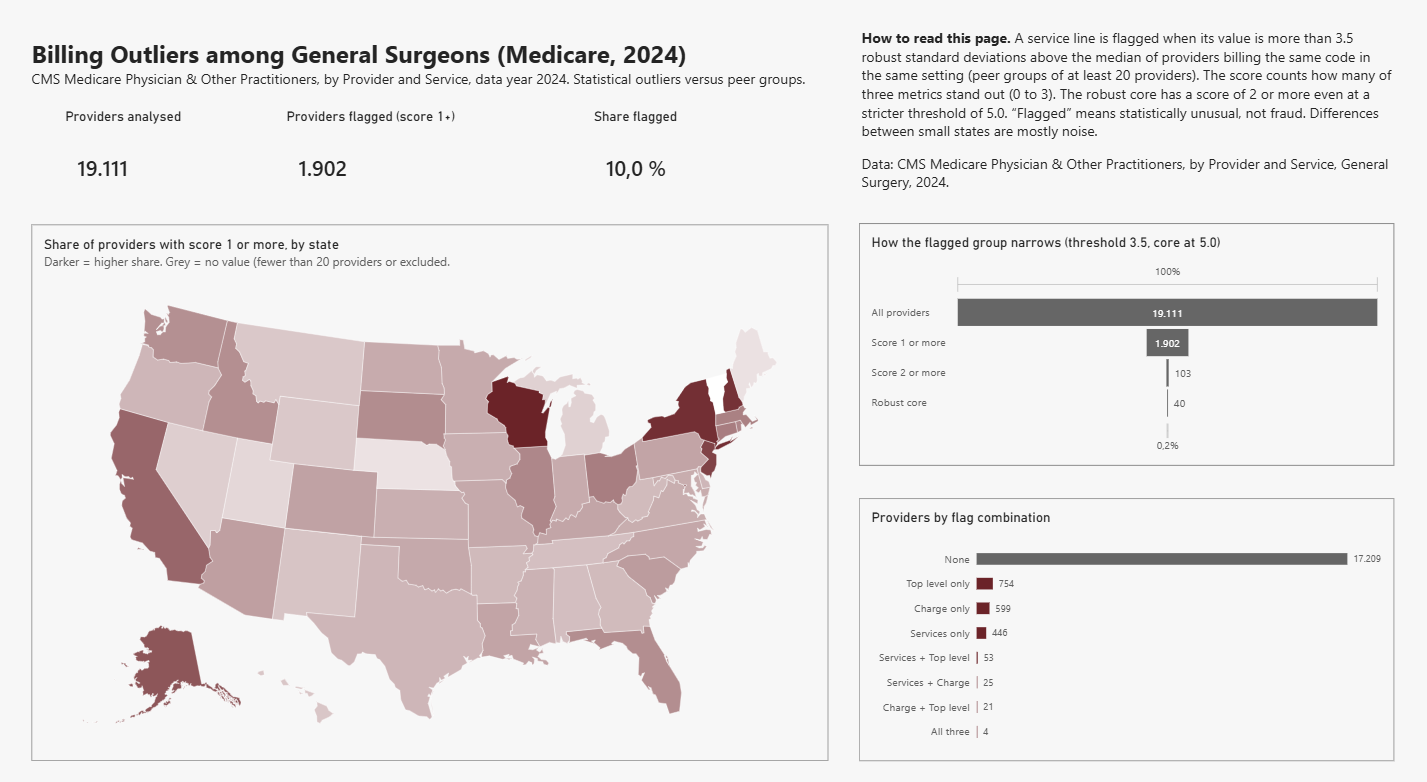
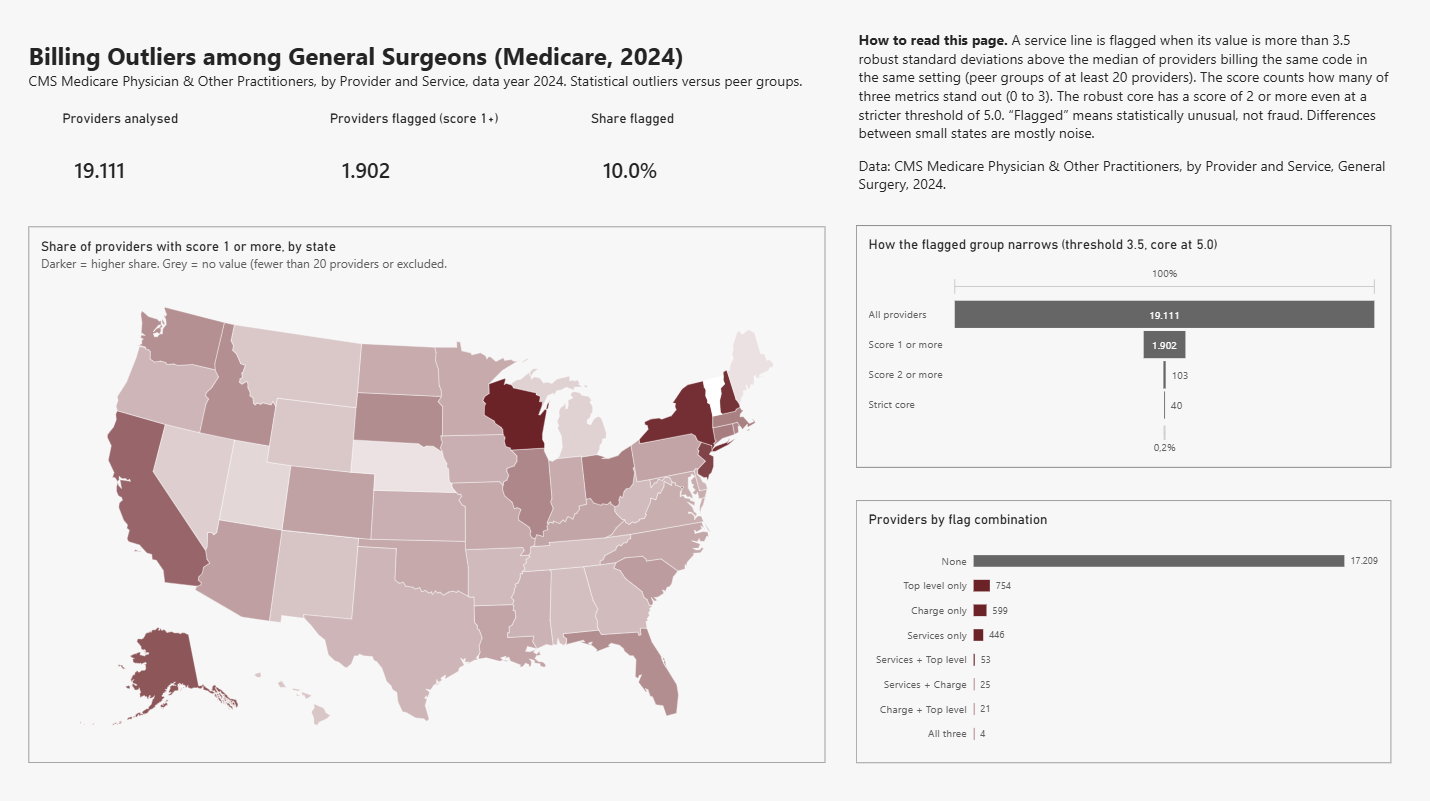
update README, check robustness

diff --git a/README.md b/README.md
@@ -31,13 +31,17 @@ The raw data is not part of this repository. Download instructions are below.
 
    `robust z = 0.6745 × (value − median) ÷ MAD`
 
-   Median and MAD (median absolute deviation) are used instead of mean and standard deviation, because extreme values distort the mean and hide themselves. If the MAD of a group is 0, the common fallback `(value − median) ÷ (1.253314 × mean absolute deviation)` is used.
+   Median and MAD (median absolute deviation) are used instead of mean and standard deviation, because extreme values distort the mean and hide themselves. If the MAD of a group is 0 (more than half of the values are identical), a fallback is used:
+
+   `robust z = (value − median) ÷ (1.253314 × mean absolute deviation)`
+
+   If that is 0 as well, no z-value is computed and nothing is flagged. The fallback is less robust than the MAD, see "Fallback rule" below.
 5. **Three metrics.**
    - Services per beneficiary (per service line)
    - Submitted charge divided by paid amount (per service line)
    - Share of the highest level (code 99215) among established-patient office visits (codes 99212 to 99215), per provider, for providers with at least 30 visit services
 6. **Provider level.** For the first two metrics, a provider stands out when at least 25 % of its comparable service lines (and at least 5) are flagged. The third metric is compared across all providers.
-7. **Score and robust core.** The score is the number of metrics (0 to 3) on which a provider stands out at the standard threshold of 3.5. The **robust core** consists of providers that still stand out on at least two metrics at a stricter threshold of 5.0.
+7. **Score and strict core.** The score is the number of metrics (0 to 3) on which a provider stands out at the standard threshold of 3.5. The **strict core** consists of providers that still stand out on at least two of the three metrics at a stricter threshold of 5.0. In the SQL code this column is called `robust_core`.
 
 ## Results
 
@@ -49,7 +53,7 @@ Numbers for General Surgery, data year 2024:
 | Flagged (score 1 or more) | 1,902 | 9.95 % |
 | Score 2 or more | 103 | 0.54 % |
 | Score 3 | 4 | |
-| Robust core | 40 | 0.21 % |
+| Strict core | 40 | 0.21 % |
 
 Sensitivity to the threshold:
 
@@ -59,22 +63,36 @@ Sensitivity to the threshold:
 | 3.5 (default) | 1,902 | 103 | 4 |
 | 5.0 | 1,126 | 40 | 0 |
 
-The size of the flagged group therefore depends on the chosen threshold. It is not an estimate of how many providers bill incorrectly. All 40 providers of the robust core are also in the group with score 2 or more at 3.5.
+The size of the flagged group therefore depends on the chosen threshold. It is not an estimate of how many providers bill incorrectly. All 40 providers of the strict core are also in the group with score 2 or more at 3.5.
 
-Other findings:
+Sensitivity to the choice of metrics (threshold 3.5, strict core at 5.0):
+
+| | All three metrics | Metrics 1 and 2 only |
+|---|---|---|
+| Providers with score 1 or more | 1,902 | 1,148 |
+| Providers with score 2 or more | 103 | 29 |
+| Strict core | 40 | 9 |
+
+For "metrics 1 and 2 only", the strict core means standing out on both service-line metrics at the threshold of 5.0. 754 of the 1,902 flagged providers (about 40 %) stand out only on the visit-level metric. Of the 40 providers in the strict core, 9 remain without it. The strict core is therefore stable against the threshold but depends on the choice of metrics. Read it as "stands out on several metrics", not as a validated finding.
+
+### Fallback rule
+
+- In 139 of 290 peer groups the MAD of services per beneficiary is 0 (more than half of the values are identical). In 13 of these, all values are identical, so no z-value is computed (558 service lines, 0.5 %). In the other 126 groups the fallback rule is used. For the charge to paid ratio the MAD is never 0.
+- For the visit-level metric, more than half of the providers bill no code 99215, so median and MAD are both 0 and the fallback applies to every provider. With a median of 0 the rule means: a provider is flagged when the share of code 99215 is more than about 30 % of its visits (3.5 × 1.2533 × the average share of 6.9 %). The threshold for the strict core is about 44 %. This is a ratio to the mean, not a robust statistic.
+
+### Other findings
 
 - 4.7 % of service lines are flagged on services per beneficiary, 4.3 % on charge to paid ratio.
-- 832 of 9,714 providers with enough visit services stand out on the share of the highest level (8.6 %). More than half of the providers never bill code 99215, so median and MAD are both 0 and the fallback rule is used.
-- In 139 of 290 peer groups the MAD of services per beneficiary is 0 (more than half of the values are identical), which is why the fallback rule is needed.
+- 832 of 9,714 providers with enough visit services stand out on the share of the highest level (8.6 %).
 - The 15 service codes with the highest share of flagged lines are a mix of laboratory tests, screening and diagnostic procedures. Most of their peer groups have 20 to 50 providers (two have more than 100), so the shares are unstable. The list shows where the rule is most active, not where billing is most questionable.
 
 ## Dashboard
 
 Power BI, three pages:
 
-1. **Overview:** share of flagged providers by state, key numbers, a funnel from all providers to the robust core, and combinations of flagged metrics
+1. **Overview:** share of flagged providers by state, key numbers, a funnel from all providers to the strict core, and combinations of flagged metrics
 2. **Robustness:** distribution of robust z-values, sensitivity to the threshold, service codes with the most flagged lines
-3. **Case list and About:** the 40 providers of the robust core (pseudonyms only), method and limits
+3. **Case list and About:** the 40 providers of the strict core (pseudonyms only), method and limits
 
 Screenshots are in `06_dashboard/`. The Power BI file itself is not published because it contains the pseudonyms and states of all providers.
 
@@ -92,16 +110,16 @@ python 02_scripts\download_cms.py
 python 02_scripts\run_sql.py 03_sql\01_condense.sql
 python 02_scripts\run_sql.py 03_sql\02_data_quality.sql
 python 02_scripts\run_sql.py 03_sql\03_metrics.sql
-python 02_scripts\run_sql.py 03_sql\05_sensitivity.sql
-python 02_scripts\run_sql.py 03_sql\06_exports.sql
+python 02_scripts\run_sql.py 03_sql\04_sensitivity.sql
+python 02_scripts\run_sql.py 03_sql\05_exports.sql
 ```
 
 Notes:
 
 - `01_condense.sql` contains the name of the downloaded CSV file. Adjust it if your download date differs.
-- Pseudonyms are drawn randomly on a fresh run. Counts, shares and flags are the same, only the labels differ.
+- Pseudonyms are drawn randomly on a fresh run of `01_condense.sql`. Counts, shares and flags are the same, only the labels differ. Do not re-run it if you want to keep the labels used in screenshots or local notes.
 - SQL uses DuckDB. DuckDB-specific parts (`read_csv`, `COPY ... TO`, `SELECT * EXCLUDE`) are marked in the comments. The rest is close to standard SQL.
-- The Power BI files read the CSV files in `05_output/`. When importing, set the locale to English (United States), otherwise decimal points are read wrongly.
+- The dashboard (not published) reads CSV files that the SQL scripts write to `05_output/`. `provider_metrics.csv` contains one pseudonymised row per provider and stays on the local computer. When importing into Power BI, set the locale to English (United States), otherwise decimal points are read wrongly.
 
 ## Runtimes
 
@@ -112,22 +130,23 @@ Measured with PowerShell `Measure-Command` on the already filtered General Surge
 | `01_condense.sql` (load, pseudonymise, metrics per row) | 2.5 s |
 | `03_metrics.sql` (peer groups, flags, score, export) | 2.1 s |
 
-Computer: Huawei Matebook D16, 16 RAM
+Computer: Huawei MateBook D16, 16 GB RAM, Windows.
 
 ## Repository structure
 
 ```
 01_data/        raw data and local database (not published)
 02_scripts/     download_cms.py, run_sql.py
-03_sql/         01_condense, 02_data_quality, 03_metrics, 05_sensitivity, 06_exports
+03_sql/         01_condense, 02_data_quality, 03_metrics, 04_sensitivity, 05_exports
 04_notebooks/   reserved for a possible machine learning comparison (see Possible next steps)
-05_output/      aggregated results (pseudonymised, no NPI)
+05_output/      CSV files created locally by the SQL scripts. Only the aggregated tables are published, the pseudonymised       provider-level file (provider_metrics.csv) is not.
 06_dashboard/   screenshots
 ```
 
 ## Privacy
 
 Names and street addresses are never loaded. National Provider Identifiers are replaced by random pseudonyms, and the mapping stays on the local computer. No single provider is named. The data itself is public, so a pseudonym is no protection against someone who deliberately matches figures with the public CMS file. For this reason the case list shows no state and no exact figures.
+The provider-level file with pseudonyms (provider_metrics.csv) is created locally and is not part of this repository. Only aggregated tables without pseudonyms are published.
 
 ## Limits
 
@@ -137,6 +156,8 @@ Names and street addresses are never loaded. National Provider Identifiers are r
 - CMS leaves out small counts (the smallest number of beneficiaries in the data is 11), so very small cases are missing.
 - No external fraud labels, so there is no hit rate. Flags are statistical outliers, not findings.
 - The size of the flagged group depends on the threshold.
+- The flagged group and the strict core depend on the choice of metrics. The visit-level metric uses the fallback rule for every provider (a ratio to the mean, not a robust statistic), and the strict core shrinks from 40 to 9 without it.
+- In 126 of 290 peer groups the fallback rule replaces the MAD for services per beneficiary. Flags there are less robust and not strictly comparable with flags from groups where the MAD is used.
 - Peer groups are partly small (at least 20 providers), and differences between small states are mostly noise.
 - The third metric is compared across all providers and does not reflect patient severity.
 
@@ -149,6 +170,8 @@ A machine learning comparison would be a natural follow-up project:
 - Look at the differences between both approaches on an aggregated level, without naming single providers.
 
 An agreement between both approaches would not validate either of them. They use the same data and similar features, and there are no external fraud labels. The rule stays the main result because every flag can be explained in one sentence. A model would serve as a cross-check.
+
+A further option is to replace the visit-level rule with a percentile-based rule, for example above the 95th percentile among providers that bill code 99215 at all, because the current rule is a ratio to the mean.
 
 ## Data quality notes
 
